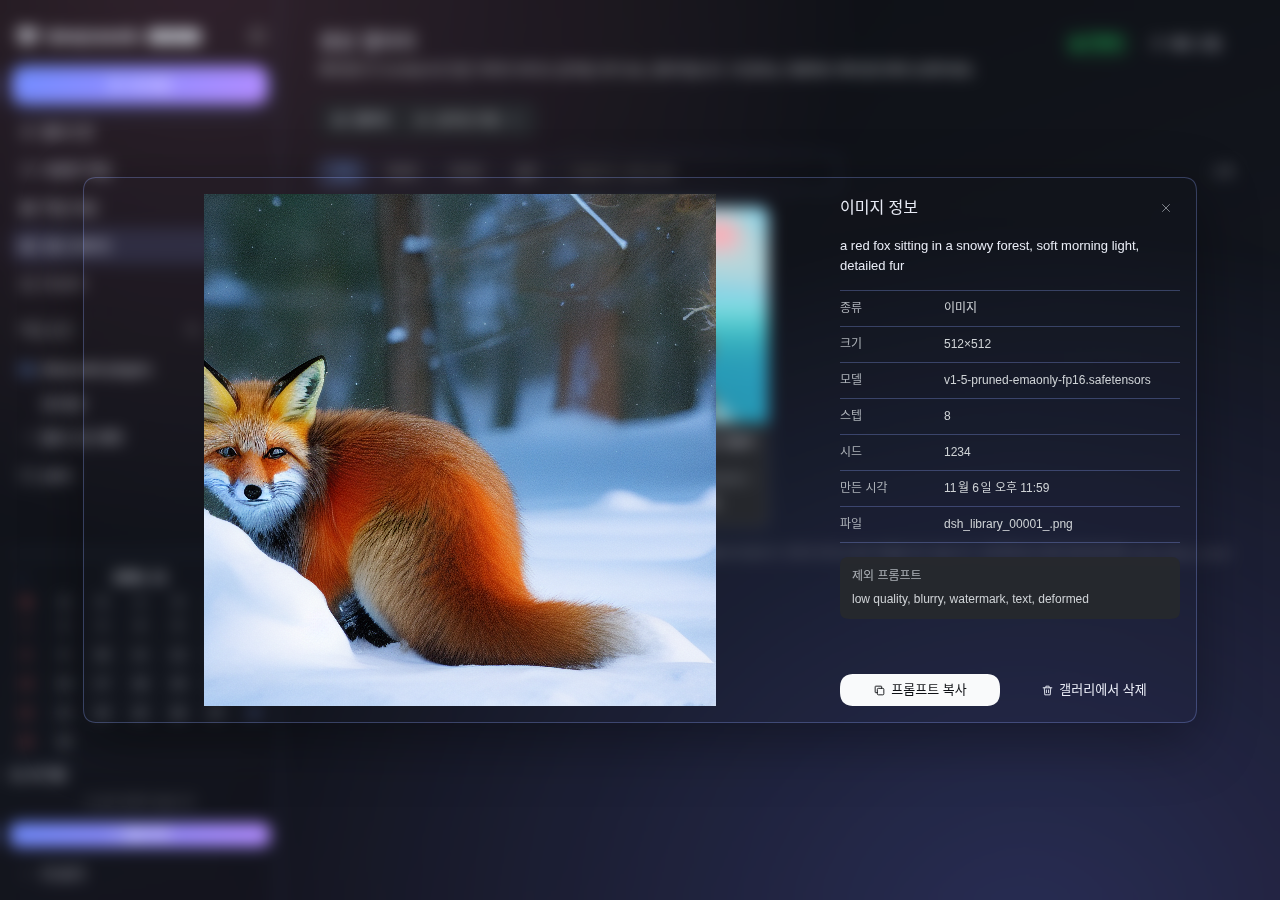
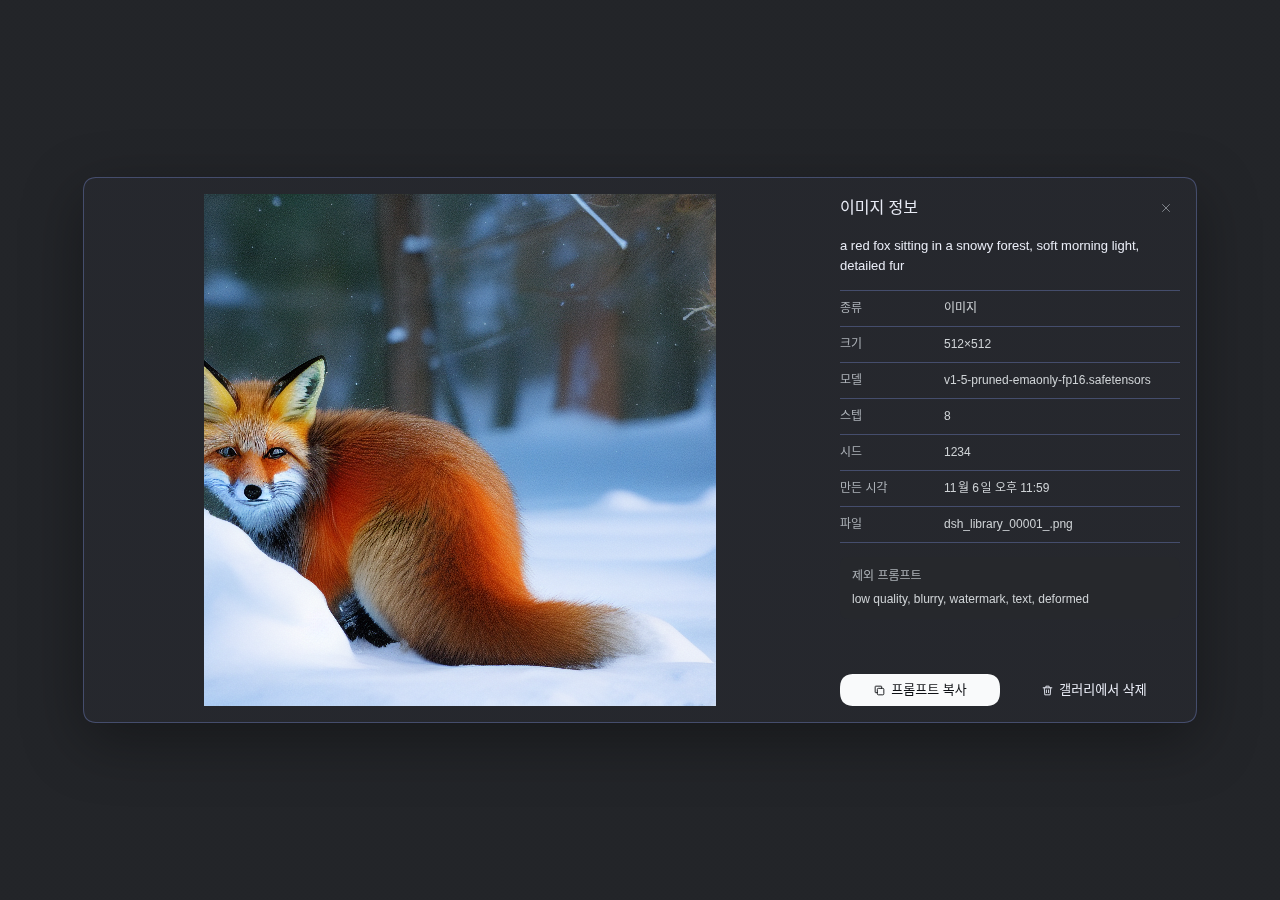
fix: 갤러리 상세 팝업 배경을 불투명하게 한다

diff --git a/lib/client.js b/lib/client.js
@@ -86,8 +86,8 @@ const CSS = [
   ".dscl-iconBtn{flex:none;display:inline-flex;align-items:center;justify-content:center;width:28px;height:28px;padding:6px;border:none;border-radius:var(--dsw-radius-sm,8px);background:transparent;color:var(--dsw-alias-label-caption);line-height:1;cursor:pointer}",
   ".dscl-iconBtn:hover{background:var(--dsw-alias-interactive-bg-hover);color:var(--dsw-alias-label-secondary)}",
   ".dscl-lightbox{position:fixed;inset:0;z-index:60;display:grid;place-items:center;padding:24px}",
-  ".dscl-lightboxBackdrop{position:absolute;inset:0;border:0;padding:0;background:color-mix(in srgb,var(--dsw-alias-bg-base) 82%,transparent);backdrop-filter:blur(8px);cursor:zoom-out}",
-  ".dscl-lightboxPanel{position:relative;z-index:1;display:grid;grid-template-columns:minmax(0,1fr) 340px;gap:20px;width:min(1080px,100%);max-height:calc(100vh - 48px);border:.5px solid var(--dsw-alias-border-l3);border-radius:16px;background:var(--dsw-specific-sidebar-fill);padding:16px;overflow:auto;box-shadow:0 18px 60px rgba(0,0,0,.35)}",
+  ".dscl-lightboxBackdrop{position:absolute;inset:0;border:0;padding:0;background:linear-gradient(var(--dsw-alias-bg-layer-1),var(--dsw-alias-bg-layer-1)),linear-gradient(var(--dsw-alias-bg-layer-1),var(--dsw-alias-bg-layer-1)),linear-gradient(var(--dsw-alias-bg-layer-1),var(--dsw-alias-bg-layer-1));cursor:zoom-out}",
+  ".dscl-lightboxPanel{position:relative;z-index:1;display:grid;grid-template-columns:minmax(0,1fr) 340px;gap:20px;width:min(1080px,100%);max-height:calc(100vh - 48px);border:.5px solid var(--dsw-alias-border-l3);border-radius:16px;padding:16px;overflow:auto;background:linear-gradient(var(--dsw-alias-bg-layer-2),var(--dsw-alias-bg-layer-2)),linear-gradient(var(--dsw-alias-bg-layer-2),var(--dsw-alias-bg-layer-2)),linear-gradient(var(--dsw-alias-bg-layer-2),var(--dsw-alias-bg-layer-2));box-shadow:0 18px 60px rgba(0,0,0,.35)}",
   "@media (max-width:820px){.dscl-lightbox{padding:12px}.dscl-lightboxPanel{grid-template-columns:minmax(0,1fr);max-height:calc(100vh - 24px);padding:12px;gap:14px}}",
   ".dscl-lightboxImage{min-width:0;min-height:200px;max-height:calc(100vh - 80px);display:flex;align-items:center;justify-content:center;border-radius:12px;background:var(--dsw-alias-bg-base);overflow:hidden}",
   ".dscl-lightboxImage img{display:block;max-width:100%;max-height:calc(100vh - 80px);object-fit:contain}",
